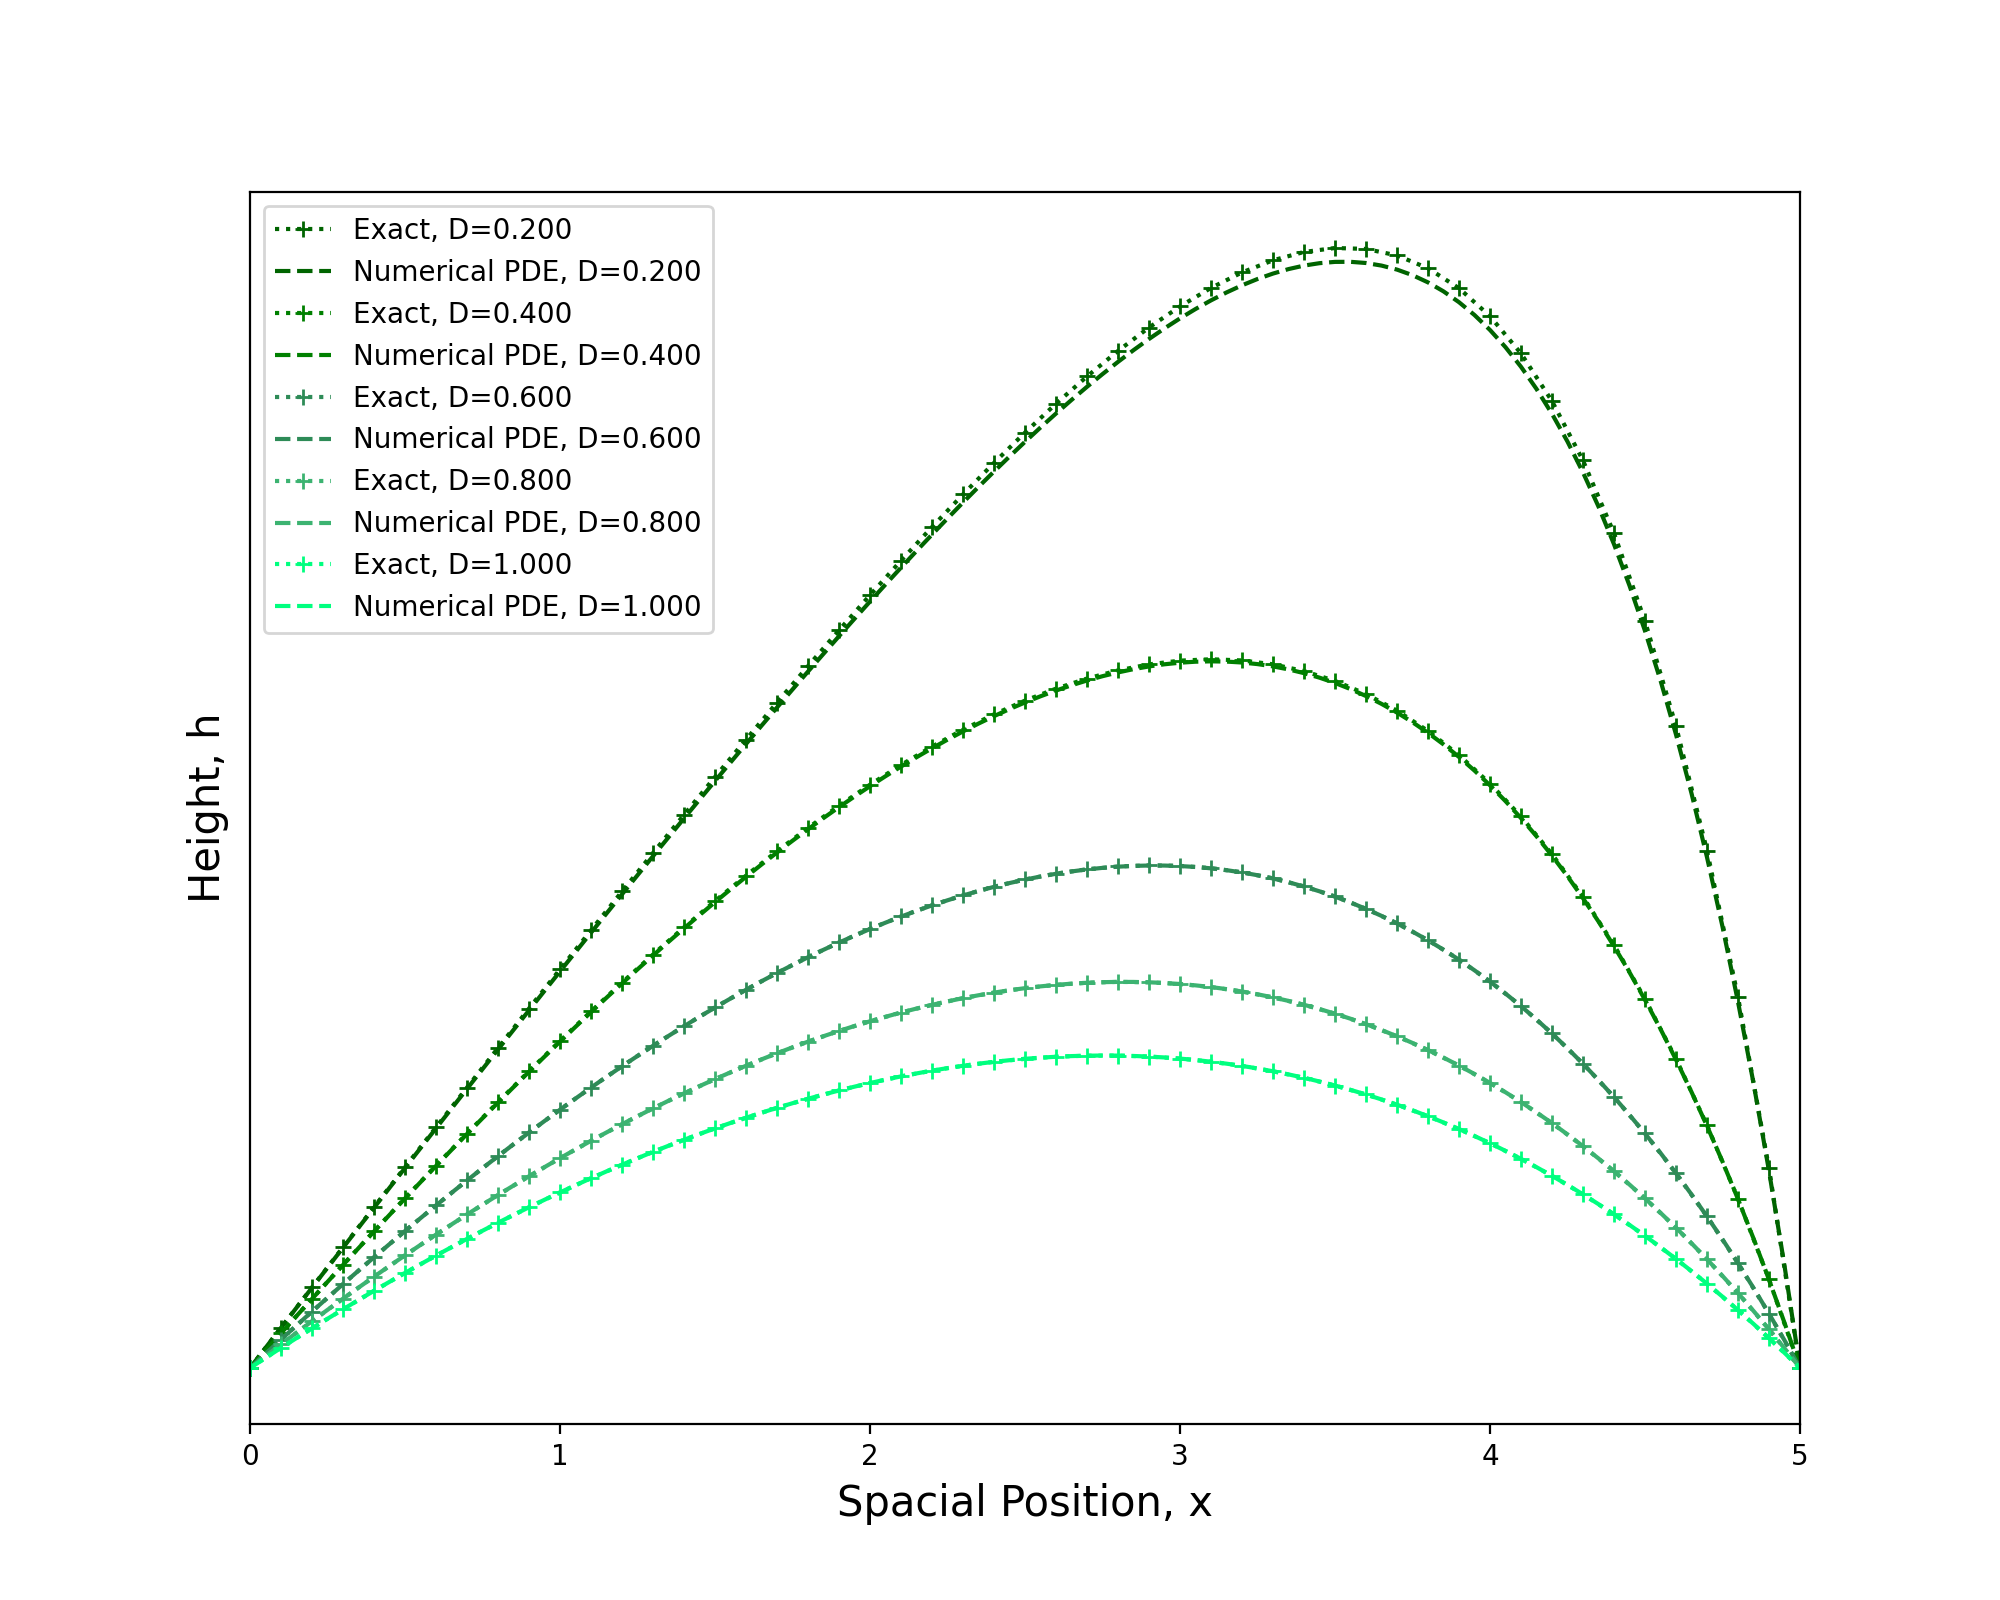
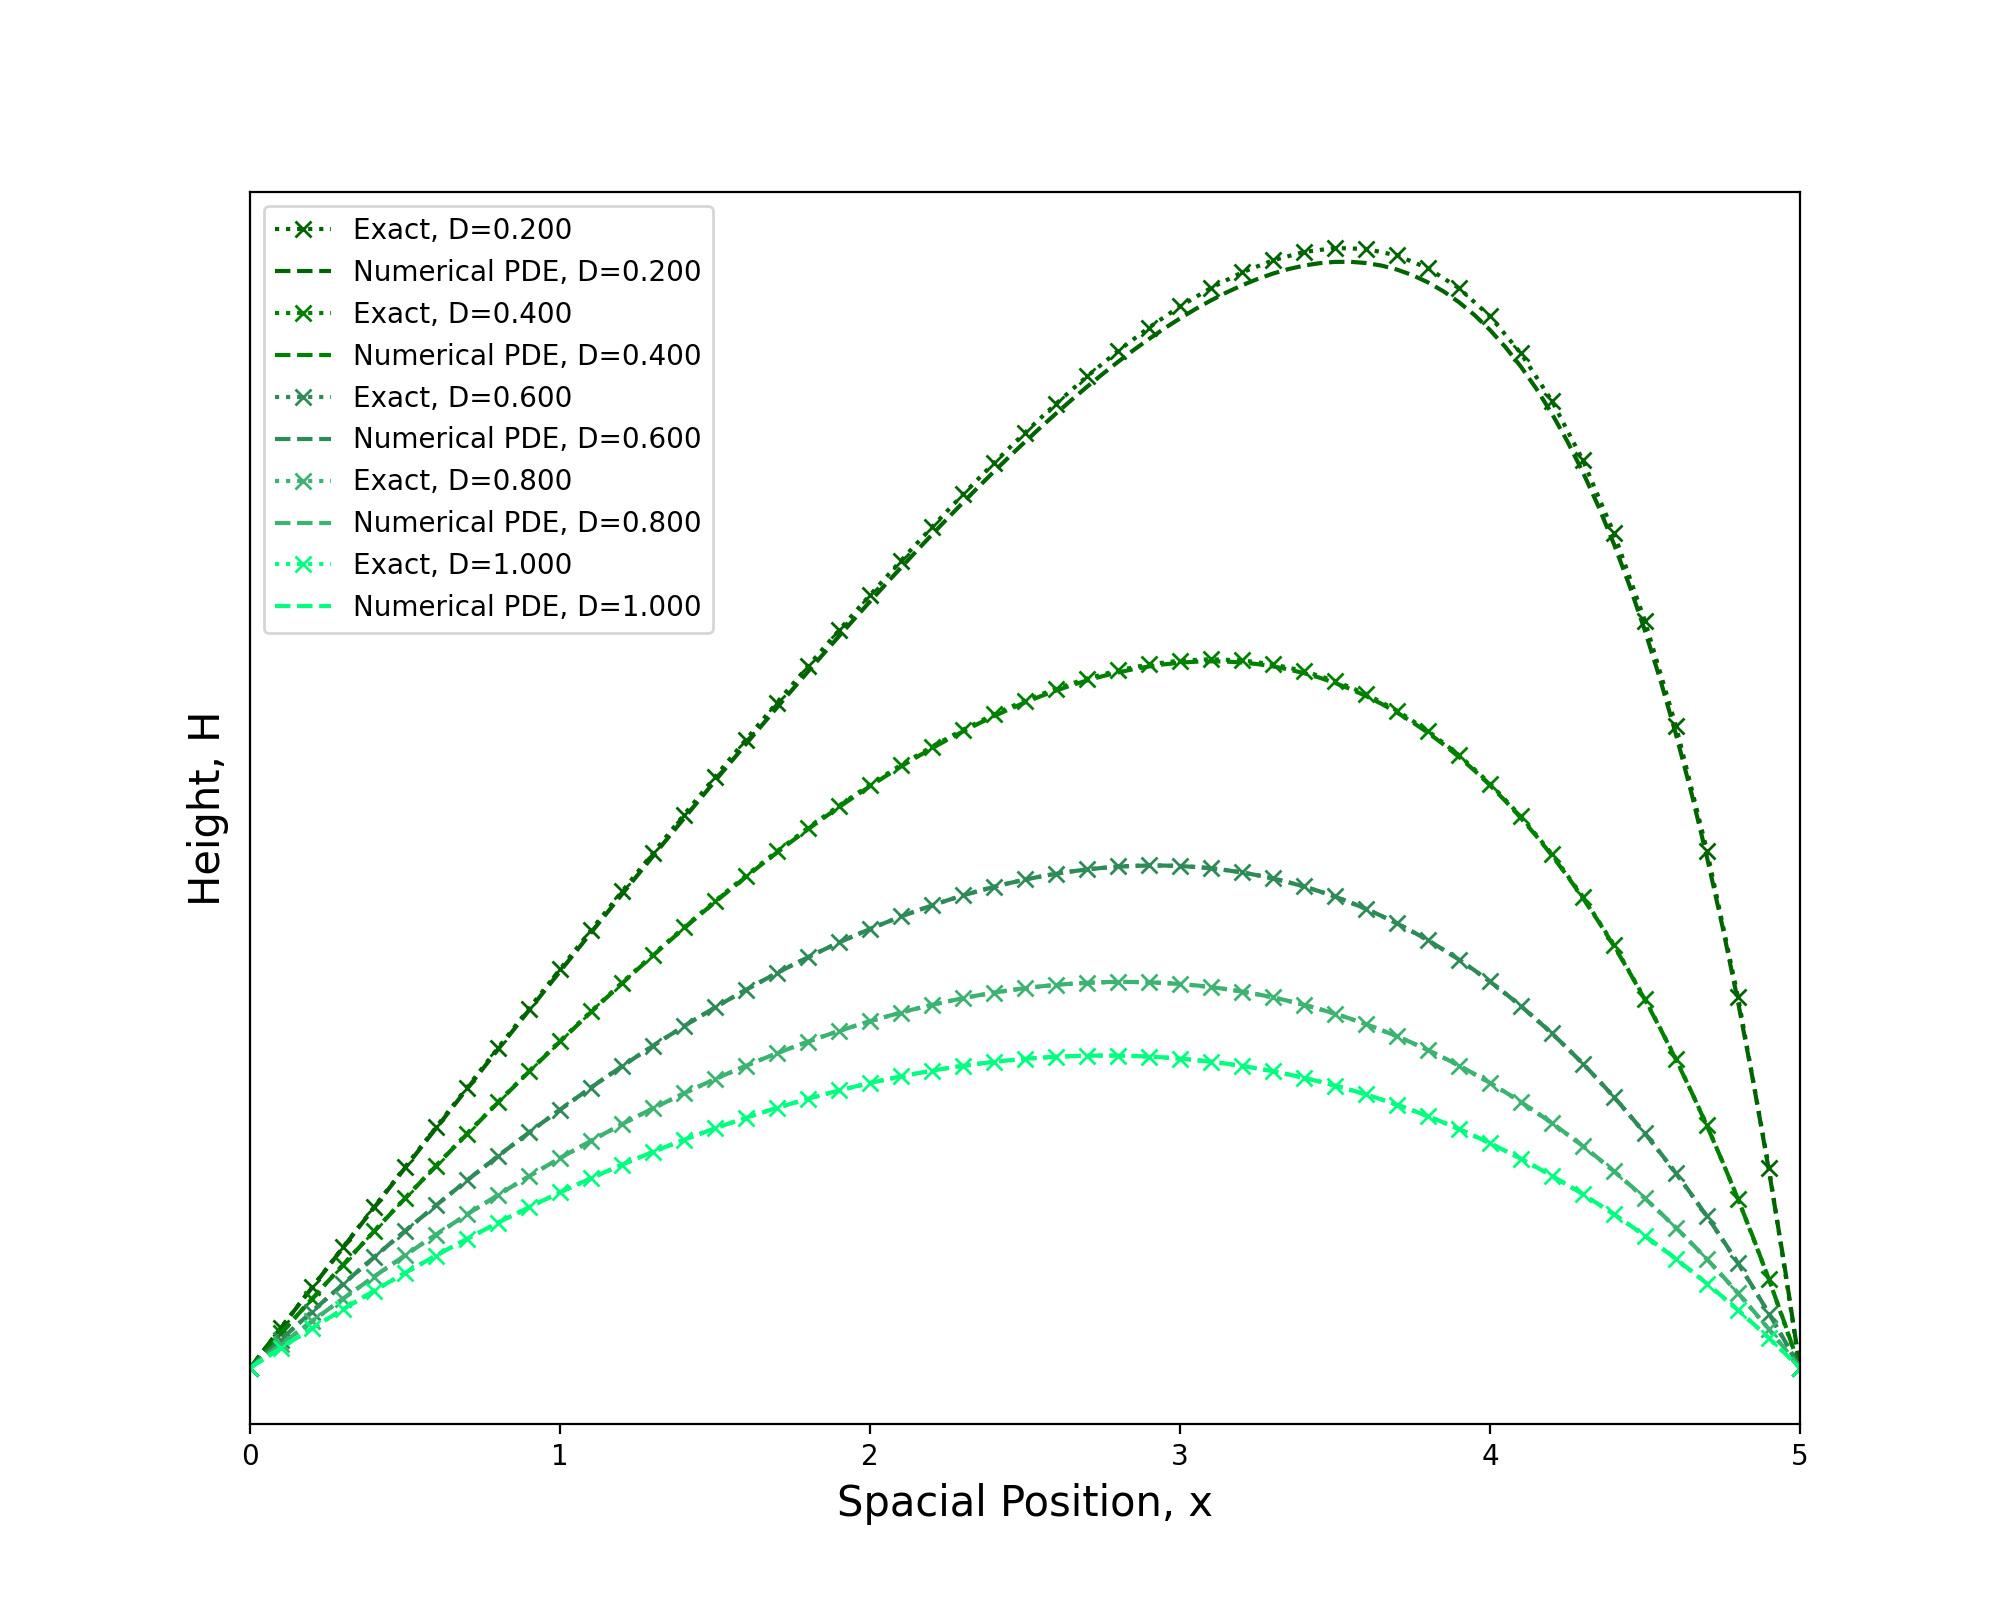
Update graphs

diff --git a/Sand.py b/Sand.py
@@ -35,7 +35,12 @@ def I(x): # initial u(x,0) = 0, dump sand at all x, assume we start with no sand
     i_x = np.zeros(len_x)
     return i_x
 
-# #Function for exact solution
+#Function for source term as a constant
+def S_constant(x, t):
+    constant_rate = 1.0
+    return constant_rate
+
+#Function for exact solution
 def exact(s, V, D, L):
     x = np.linspace(0, L, N_dots+1)
     M = np.size(x)
@@ -43,11 +48,11 @@ def exact(s, V, D, L):
     for i in range(1,M-1):
         beta = (s*L)/(V*(1-np.exp((V*L)/D)))
         u_ex[i] = beta*(np.exp((V/D)*x[i])-1) + (s/V)*x[i]
-    return u_ex
+    return x, u_ex
 
 #Define the numerical solution for different belt speeds, and coefficients
 #Define external constants V (speed of belt), D(Diffusion coefficient), and s (source term)
-def numerical(s, V, D, L):
+def numerical(S, V, D, L):
     x_pde, dx, dt = scale(L)
 
     #The first index is space and the second time
@@ -83,7 +88,7 @@ def numerical(s, V, D, L):
         
         #compute u at inner mesh points
         for i in range(1, Nx_points-1):
-            u[i] = (p/2 + r)*u_old[i-1] + (1 - 2*r)*u_old[i] + (r - p/2)*u_old[i+1] + s*dt
+            u[i] = (p/2 + r)*u_old[i-1] + (1 - 2*r)*u_old[i] + (r - p/2)*u_old[i+1] + S(u_old[i], n)*dt
     
         #update u_old before next step
         u_old[:]= u.copy()
@@ -91,7 +96,7 @@ def numerical(s, V, D, L):
         #copy into full storage
         U[:,n] = u.copy()
 
-    return U
+    return x_pde, U
 
 
 # ===== Plotting =====
@@ -103,8 +108,66 @@ reds = ['darkred', 'crimson', 'indianred', 'red', 'lightsalmon', 'salmon']
 greens =['darkgreen', 'green', 'seagreen', 'mediumseagreen','springgreen', 'palegreen']
 blues = ['navy', 'royalblue','mediumslateblue', 'dodgerblue', 'skyblue', 'lightsteelblue']
 
-x_pde, dx, dt = scale(length)
-x_dots = np.linspace(0, length, N_dots+1)
+# # ===== Steady State Graphs =====
+
+# plt.figure(1, figsize=(10, 8), dpi=200)
+# #define advection speeds
+# advection = [0.25, 0.3, 0.35, 0.4, 0.45, 0.5]
+# for i in range(0, len(advection)):
+#     label = "Exact, V=" + "%0.3f" % (advection[i])
+#     x_dots, u_exact = exact(1.0, advection[i], 0.5, 5)
+#     plt.plot(x_dots, u_exact,color = reds[i], linestyle = ':', marker = markers[0], label = label)
+
+#     label = "Numerical PDE, V=" + "%0.3f" % (advection[i])
+#     x_pde, u_num = numerical(S_constant, advection[i], 0.5, 5)
+#     plt.plot(x_pde, u_num[:,-1], color = reds[i], linestyle = 'dashed', label = label)
+
+# plt.legend()
+# plt.yticks([])
+# plt.xlim(0,length) # zoom in on area of interest
+# plt.xlabel('Spacial Position, x', fontsize = 15)
+# plt.ylabel('Height, H', fontsize = 15)
+# plt.savefig('Advection Figure 1.png')
+
+# plt.figure(2, figsize=(10, 8), dpi=200)
+# #define diffusion coefficients 
+# diffusion = [0.2, 0.4, 0.6, 0.8, 1.0]
+# for i in range(0, len(diffusion)):
+#     label = "Exact, D=" + "%0.3f" % (diffusion[i])
+#     x_dots, u_exact = exact(1.0, 0.25, diffusion[i], 5)
+#     plt.plot(x_dots, u_exact,color = greens[i], linestyle = ':', marker = markers[0], label = label)
+
+#     label = "Numerical PDE, D=" + "%0.3f" % (diffusion[i])
+#     x_pde, u_num = numerical(S_constant, 0.25, diffusion[i], 5)
+#     plt.plot(x_pde, u_num[:,-1], color = greens[i], linestyle = 'dashed', label = label)
+
+# plt.legend()
+# plt.yticks([])
+# plt.xlim(0,length) # zoom in on area of interest
+# plt.xlabel('Spacial Position, x', fontsize = 15)
+# plt.ylabel('Height, H', fontsize = 15)
+# plt.savefig('Diffusion Figure 1.png')
+
+# plt.figure(3, figsize=(10, 8), dpi=200)
+# #define lengths
+# lengths = [5,6,7,8,9,10]
+# for i in range(0, len(lengths)):
+#     label = "Exact, L=" + "%0.3f" % (lengths[i])
+#     x_dots, u_exact = exact(1.0, 0.25, 0.5, lengths[i])
+#     plt.plot(x_dots, u_exact,color = blues[i], linestyle = ':', marker = markers[0], label = label)
+
+#     label = "Numerical PDE, L=" + "%0.3f" % (lengths[i])
+#     x_pde, u_num = numerical(S_constant, 0.25, 0.5, lengths[i])
+#     plt.plot(x_pde, u_num[:,-1], color = blues[i], linestyle = 'dashed', label = label)
+
+# plt.legend()
+# plt.yticks([])
+# plt.xlim(0,max(lengths)) # zoom in on area of interest
+# plt.xlabel('Spacial Position, x', fontsize = 15)
+# plt.ylabel('Height, H', fontsize = 15)
+# plt.savefig('Length Figure 1.png')
+
+# ===== Max height =====
 
 plt.figure(4, figsize=(10,8), dpi =80)
 Nintervals = 50
@@ -112,22 +175,22 @@ Nintervals = 50
 max_height_adv = []
 interval_size = (0.5-0.25)/Nintervals
 for v in np.arange(0.25, 0.25 + interval_size*(Nintervals+1), interval_size):
-    max_height_adv.append(max(exact(1.0, v, 0.5, length)))
+    max_height_adv.append(max(exact(1.0, v, 0.5, length)[-1]))
 plt.plot(max_height_adv, label = 'Advection, V', color = 'red')
 
 interval_size = (1.0-0.5)/Nintervals
 max_height_diff = []
 for d in np.arange(0.5, 0.5 + interval_size*(Nintervals+1), interval_size):
-    max_height_diff.append(max(exact(1.0, 0.25, d, length)))
+    max_height_diff.append(max(exact(1.0, 0.25, d, length)[-1]))
 plt.plot(max_height_diff, label = 'Diffusion, D', color = 'green')
 
 interval_size = (10-5)/Nintervals
 max_height_length = []
 for l in np.arange(5, 5  + interval_size*(Nintervals+1), interval_size):
-    max_height_length.append(max(exact(1.0, 0.25, 0.5, l)))
+    max_height_length.append(max(exact(1.0, 0.25, 0.5, l)[-1]))
 plt.plot(max_height_length, label = 'Length, L', color = 'blue')
 
-plt.plot(max(exact(1.0, 0.25, 0.5, length))*np.ones(Nintervals), linestyle = 'dashed', color='Black', label = 'D = 0.5, V = 0.25, L = 5')
+plt.plot(max(exact(1.0, 0.25, 0.5, length)[-1])*np.ones(Nintervals), linestyle = 'dashed', color='Black', label = 'D = 0.5, V = 0.25, L = 5')
 plt.legend()
 plt.yticks([])
 plt.xticks([])
@@ -136,53 +199,6 @@ plt.ylabel('Max height of sand pile', fontsize = 16)
 plt.savefig('Figure Height.png')
 
 
-plt.figure(1, figsize=(10, 8), dpi=200)
-#define advection speeds
-advection = [0.25, 0.3, 0.35, 0.4, 0.45, 0.5]
-for i in range(0, len(advection)):
-    label = "Exact, V=" + "%0.3f" % (advection[i])
-    plt.plot(x_dots, exact(1.0, advection[i], 0.5, 5),color = reds[i], linestyle = ':', marker = markers[0], label = label)
-    label = "Numerical PDE, V=" + "%0.3f" % (advection[i])
-    plt.plot(x_pde, numerical(1.0, advection[i], 0.5, 5)[:,-1], color = reds[i], linestyle = 'dashed', label = label)
+# ===== S(x, t) non-constant =====
 
-plt.legend()
-plt.yticks([])
-plt.xlim(0,length) # zoom in on area of interest
-plt.xlabel('Spacial Position, x', fontsize = 15)
-plt.ylabel('Height, H', fontsize = 15)
-plt.savefig('Advection Figure 1.png')
-
-plt.figure(2, figsize=(10, 8), dpi=200)
-#define diffusion coefficients 
-diffusion = [0.2, 0.4, 0.6, 0.8, 1.0]
-for i in range(0, len(diffusion)):
-    label = "Exact, D=" + "%0.3f" % (diffusion[i])
-    plt.plot(x_dots, exact(1.0, 0.25, diffusion[i], 5),color = greens[i], linestyle = ':', marker = markers[1], label = label)
-    label = "Numerical PDE, D=" + "%0.3f" % (diffusion[i])
-    plt.plot(x_pde, numerical(1.0, 0.25, diffusion[i], 5)[:,-1], color = greens[i], linestyle = 'dashed', label = label)
-
-plt.legend()
-plt.yticks([])
-plt.xlim(0,length) # zoom in on area of interest
-plt.xlabel('Spacial Position, x', fontsize = 15)
-plt.ylabel('Height, H', fontsize = 15)
-plt.savefig('Diffusion Figure 1.png')
-
-plt.figure(3, figsize=(10, 8), dpi=200)
-#define lengths
-lengths = [5,6,7,8,9,10]
-for i in range(0, len(lengths)):
-    x_pde, dx, dt = scale(lengths[i])
-    x_dots = np.linspace(0, lengths[i], N_dots+1)  
-    label = "Exact, L=" + "%0.3f" % (lengths[i])
-    plt.plot(x_dots, exact(1.0, 0.25, 0.5, lengths[i]),color = blues[i], linestyle = ':', marker = markers[1], label = label)
-    label = "Numerical PDE, L=" + "%0.3f" % (lengths[i])
-    plt.plot(x_pde, numerical(1.0, 0.25, 0.5, lengths[i])[:,-1], color = blues[i], linestyle = 'dashed', label = label)
-
-plt.legend()
-plt.yticks([])
-plt.xlim(0,max(lengths)) # zoom in on area of interest
-plt.xlabel('Spacial Position, x', fontsize = 15)
-plt.ylabel('Height, H', fontsize = 15)
-plt.savefig('Length Figure 1.png')
 
